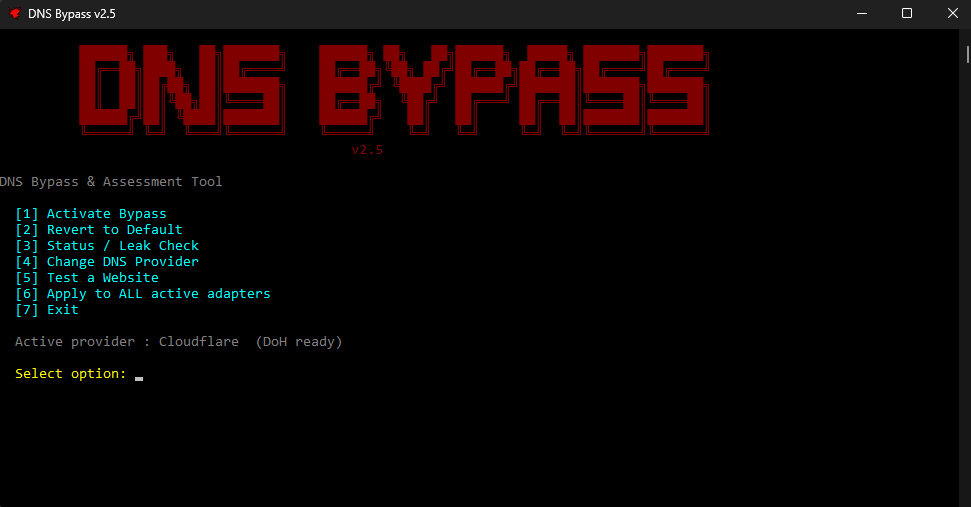
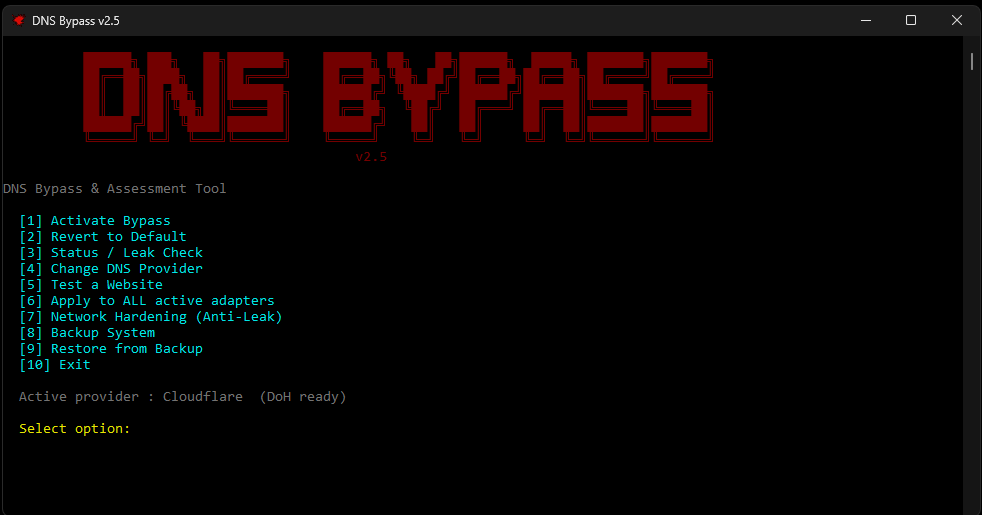
Add console transparency and update screenshot
- Console window now has 90% opacity (semi-transparent background)
- Updated README with latest screenshot showing all 10 menu options
- Added Windows API for layered window transparency
- Enhanced visual appearance for better user experience

diff --git a/Program.cs b/Program.cs
@@ -167,6 +167,9 @@ namespace DnsAdvancedBypass
             Console.Title = "DNS Bypass v2.5";
             Console.OutputEncoding = Encoding.UTF8;
 
+            // Apply console transparency
+            SetConsoleTransparency(230); // 230/255 = ~90% opacity
+
             // Initialize modular services
             _logger = new ConsoleLogger(debugMode: false);
             _registry = new SafeRegistryHelper(_logger);
@@ -2306,9 +2309,43 @@ namespace DnsAdvancedBypass
         [DllImport("user32.dll", CharSet = CharSet.Unicode)]
         static extern int MessageBoxW(IntPtr hWnd, string lpText, string lpCaption, uint uType);
 
+        [DllImport("kernel32.dll")]
+        static extern IntPtr GetConsoleWindow();
+
+        [DllImport("user32.dll")]
+        static extern int SetLayeredWindowAttributes(IntPtr hwnd, uint crKey, byte bAlpha, uint dwFlags);
+
+        [DllImport("user32.dll")]
+        static extern int GetWindowLong(IntPtr hWnd, int nIndex);
+
+        [DllImport("user32.dll")]
+        static extern int SetWindowLong(IntPtr hWnd, int nIndex, int dwNewLong);
+
+        private const int GWL_EXSTYLE = -20;
+        private const int WS_EX_LAYERED = 0x80000;
+        private const int LWA_ALPHA = 0x2;
+
         static bool ContainsAny(string s, params string[] needles)
         {
             return needles.Any(n => s.IndexOf(n, StringComparison.OrdinalIgnoreCase) >= 0);
+        }
+
+        static void SetConsoleTransparency(byte alpha)
+        {
+            try
+            {
+                IntPtr hwnd = GetConsoleWindow();
+                if (hwnd != IntPtr.Zero)
+                {
+                    int extendedStyle = GetWindowLong(hwnd, GWL_EXSTYLE);
+                    SetWindowLong(hwnd, GWL_EXSTYLE, extendedStyle | WS_EX_LAYERED);
+                    SetLayeredWindowAttributes(hwnd, 0, alpha, LWA_ALPHA);
+                }
+            }
+            catch
+            {
+                // Silently fail if transparency not supported
+            }
         }
 
         static void SetColor(ConsoleColor c)

diff --git a/README.md b/README.md
@@ -74,11 +74,11 @@
   [3] Status / Leak Check          - Check current DNS configuration
   [4] Change DNS Provider          - Switch between DNS providers
   [5] Test a Website               - Verify connectivity to a domain
-  [6] Apply to ALL adapters        - Apply DNS to all active adapters
-  [7] Network Hardening            - Apply anti-leak measures
+  [6] Apply to ALL active adapters - Apply DNS to all active adapters
+  [7] Network Hardening (Anti-Leak)- Apply comprehensive leak prevention
   [8] Backup System                - Create system state snapshot
   [9] Restore from Backup          - Restore from previous snapshot
-  [10] Exit
+  [10] Exit                        - Close the application
 ```
 
 ---
